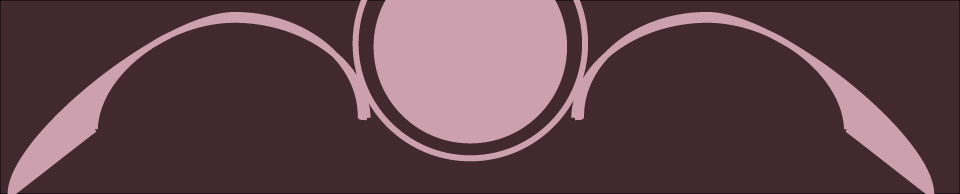
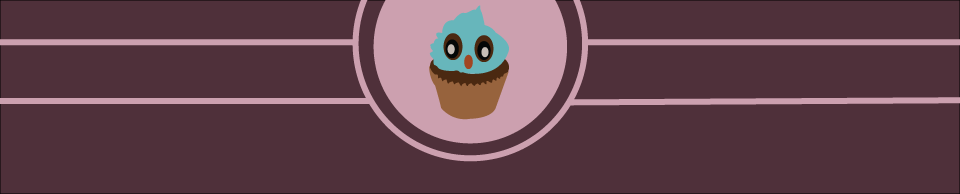
changing the header

Changed region(s): [[0.5938, 0.0619, 1.0, 1.0], [0.0, 0.0619, 0.4062, 1.0], [0.4375, 0.0309, 0.5312, 0.6186]]

diff --git a/main.css b/main.css
@@ -18,7 +18,8 @@ h1, h2, h3{
 }
 h1{
 
-	font-size: 2.6rem;	
+	font-size: 2.6rem;
+	margin-top: 18px;	
 }
 h2{
 	font-size: 3.0rem;	
@@ -119,13 +120,14 @@ a{
 	font-family: 'Prosto One', cursive;
 
 }
- a:hover,
+
+.navbar a:hover,
 
 {
 	color:  #F2D129;
 }
 /***********************************
-					Content
+					Content list slyle imag
 ***********************************/
 .sidebar p{
 

diff --git a/includes/masthead.php b/includes/masthead.php
@@ -12,7 +12,7 @@
 <body>
 	<div id="wrapper">
     	<header class="masthead">
-        	<h1>Cupcakes and Monkies !</h1>
+        	<h1>Cupcakes!</h1>
         </header>
         
         <nav class="nav">
